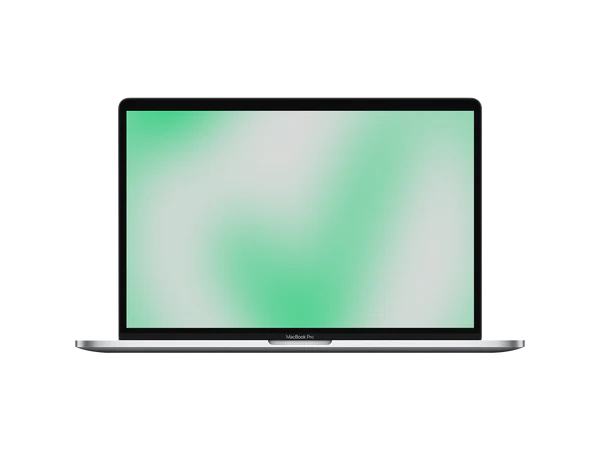
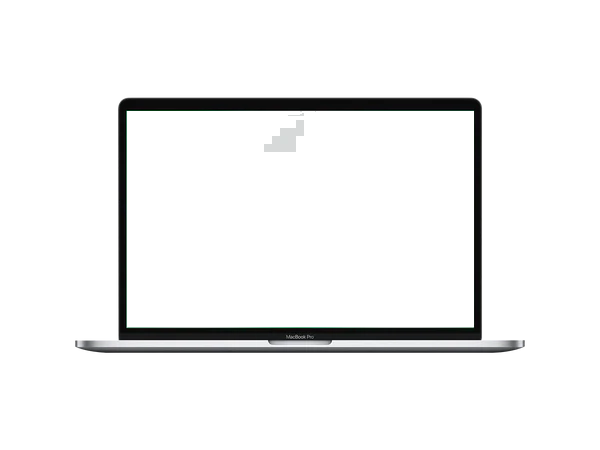
Inset Mac window inside MacBook chassis + 20% scale
Cut the screen area out of the MacBook frame asset so the Mac-style
window (traffic lights + dashboard) shows through cleanly, with no
stock green-screen peek on the edges.

Changed region(s): [[0.21, 0.2489, 0.81, 0.7467]]

diff --git a/src/Landing.jsx b/src/Landing.jsx
@@ -1040,31 +1040,69 @@ function BentoFeatures() {
                 the dashboard screenshot is positioned absolutely inside
                 the screen area (measured from the asset: 21.7% / 25.6%
                 / 56.7% / 46.7%). */}
-            {/* MacBook frame is the back layer; dashboard is overlaid on
-                top of the laptop's stock green-gradient screen using the
-                screen-area percentages measured from the asset. */}
+            {/* MacBook frame (transparent screen area) wrapping a Mac-style
+                window with traffic-light titlebar + dashboard. Scaled 1.2×
+                so the chassis reads at the original presented size. */}
             <div style={{
               marginTop: 'auto', marginRight: -28, marginLeft: -28, marginBottom: -28,
               position: 'relative',
               aspectRatio: '600 / 450',
+              transform: 'scale(1.2)',
+              transformOrigin: 'top center',
               filter: 'drop-shadow(0 24px 40px rgba(0,0,0,0.35))',
             }}>
+              {/* Mac window — fills the laptop's screen area exactly so the
+                  stock green gradient never peeks through. */}
+              <div style={{
+                position: 'absolute',
+                top: '24.9%',
+                left: '21.2%',
+                width: '57.7%',
+                height: '47.6%',
+                background: '#0a0a0a',
+                display: 'flex',
+                flexDirection: 'column',
+                overflow: 'hidden',
+              }}>
+                <div style={{
+                  background: 'linear-gradient(180deg, #2c2c2c 0%, #1c1c1c 100%)',
+                  borderBottom: '1px solid rgba(255,255,255,0.06)',
+                  display: 'flex', alignItems: 'center',
+                  padding: '6px 10px', gap: 6,
+                  direction: 'ltr',
+                  flexShrink: 0,
+                }}>
+                  <span style={{ width: 8, height: 8, borderRadius: '50%', background: '#FF5F57',
+                    boxShadow: 'inset 0 0 0 0.5px rgba(0,0,0,0.2)' }} />
+                  <span style={{ width: 8, height: 8, borderRadius: '50%', background: '#FEBC2E',
+                    boxShadow: 'inset 0 0 0 0.5px rgba(0,0,0,0.2)' }} />
+                  <span style={{ width: 8, height: 8, borderRadius: '50%', background: '#28C840',
+                    boxShadow: 'inset 0 0 0 0.5px rgba(0,0,0,0.2)' }} />
+                  <div style={{
+                    flex: 1, textAlign: 'center',
+                    fontSize: 9, color: 'rgba(255,255,255,0.45)',
+                    fontFamily: 'Rubik, monospace', letterSpacing: '0.03em',
+                    marginRight: 30,
+                  }}>app.pivott.digital — עריכת ספק</div>
+                </div>
+                <img src="assets/app-dashboard.png" alt="Pivot — מסך עריכת ספק"
+                  style={{
+                    flex: 1,
+                    width: '100%',
+                    minHeight: 0,
+                    objectFit: 'cover',
+                    objectPosition: 'top center',
+                    display: 'block',
+                  }} />
+              </div>
+              {/* Laptop chassis — opaque borders, transparent screen lets
+                  the window above show through. */}
               <img src="assets/macbook-frame.png" alt="" aria-hidden="true"
                 style={{
                   position: 'absolute', inset: 0,
                   width: '100%', height: '100%',
                   display: 'block',
                   pointerEvents: 'none',
-                }} />
-              <img src="assets/app-dashboard.png" alt="Pivot — מסך עריכת ספק"
-                style={{
-                  position: 'absolute',
-                  top: '24.7%',
-                  left: '21.2%',
-                  width: '57.5%',
-                  height: '47.6%',
-                  objectFit: 'cover',
-                  display: 'block',
                 }} />
             </div>
           </BentoCell>
